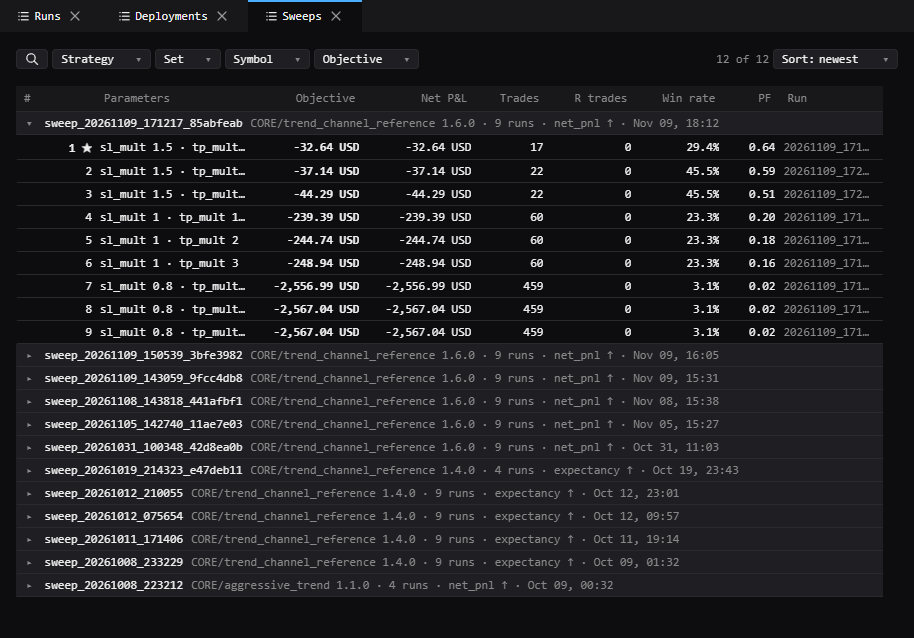
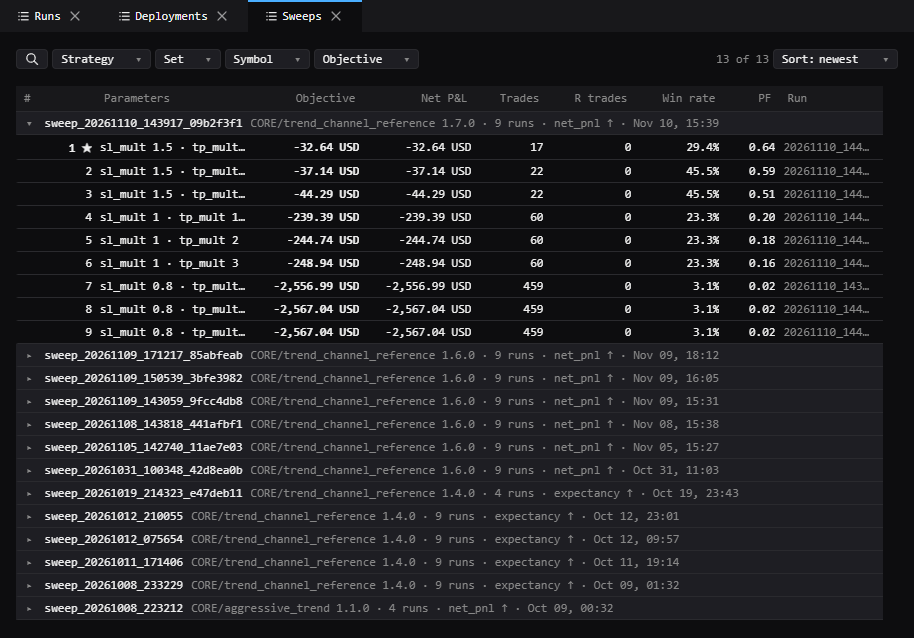
Take the README's pictures from the catalog produced after the realism changes
The deployment and the sweep the pictures show move to the productions
FiniexTestingIDE made on 2026-11-10, the session at the same place in
the deployment as before. Retaken against the live API.

diff --git a/e2e/readme_pictures.spec.ts b/e2e/readme_pictures.spec.ts
@@ -28,10 +28,10 @@ const OUT = '/app/docs/images'
 const RUN = '20261007_145935_5f9186f8'
 const UNIT = 'EURUSD_blocks_09'
 const SESSION = '20261022_123550_0bfde90e'
-const DEPLOYMENT = 'deploy_20261109_170634_ee56285c'
+const DEPLOYMENT = 'deploy_20261110_145808_6b55f50f'
 // a session of that deployment, so the panels beside it show the bot's run
-const DEPLOYMENT_SESSION = '20261109_170756_16e8aed9'
-const SWEEP = 'sweep_20261109_171217_85abfeab'
+const DEPLOYMENT_SESSION = '20261110_145930_c1df9fa3'
+const SWEEP = 'sweep_20261110_143917_09b2f3f1'
 // the arrangement the pictures are taken in, stored with the size it was arranged at
 const ARRANGEMENT = JSON.parse(readFileSync(join(dirname(fileURLToPath(import.meta.url)), 'readme_arrangement.json'), 'utf-8'))
 const HIDDEN = (process.env['PICTURES_HIDE'] ?? '').split(',').map(word => word.trim().toLowerCase()).filter(Boolean)
